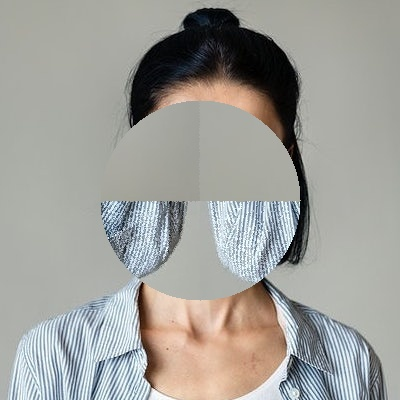
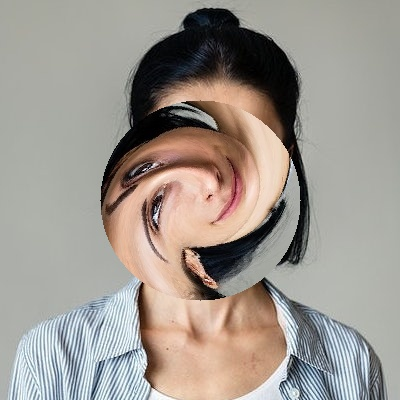
horrible looking forward swirl

Changed region(s): [[0.24, 0.24, 0.75, 0.75]]

diff --git a/Q4/q4.py b/Q4/q4.py
@@ -42,6 +42,11 @@ class polar:
         offset_x = x - self.center_y
         return offset_x, offset_y
 
+    def removeCenterOffset(self, offset_x, offset_y):
+        y = offset_x + self.center_x
+        x = offset_y + self.center_y
+        return x, y
+
     def cartesianToPolar(self, x,y):
         #assumes that c-ords have already be normalised around new center
         theta = self.thetaFromOragin(x, y)
@@ -60,7 +65,7 @@ class polar:
         if radius == 0:
             return 0,0
 
-        if theta <= 2 * math.pi and theta > 3/2 * math.pi:
+        elif theta <= 2 * math.pi and theta > 3/2 * math.pi:
             y = -(radius * math.cos(theta - 3/2 * math.pi))
             x = (radius * math.sin(theta - 3/2 * math.pi))
 
@@ -76,12 +81,15 @@ class polar:
             x = radius * math.cos(theta)
             y = radius * math.sin(theta)
 
+        else:
+            print(radius,theta)
+
         return x,y
 
 
 
-    def imageToPolar(self):
-
+    def imageToPolarTocartensian(self):
+        # a nice sense check!
         rows, cols, dims = self.image.shape
         canvas  = np.array([[(0.0, 0.0) for _ in range(cols)] for i_ in range(rows)])
 
@@ -89,8 +97,9 @@ class polar:
             for columb_x in range(cols):
                 offset_x, offset_y =self.centerOffset(columb_x, row_y)
                 theta, radius = self.cartesianToPolar(offset_x, offset_y)
+                new_x, new_y = self.polarToCartesian(radius, theta)
 
-                canvas[row_y][columb_x] = (theta, radius)
+                canvas[row_y][columb_x] = (new_x, new_y)
         return canvas
 
     def swirlForward(self, swirl_radius):
@@ -103,8 +112,9 @@ class polar:
                 theta, radius = self.cartesianToPolar(offset_x, offset_y)
 
                 if radius <= swirl_radius:
-                        altered_theta = self.addAngle(theta, math.pi/2)
+                        altered_theta = self.addAngle(theta, abs(math.sin(radius/swirl_radius)) * math.pi)
                         alt_x, alt_y = self.polarToCartesian(radius, altered_theta)
+                        alt_x, alt_y = self.removeCenterOffset(alt_x, alt_y)
                         alt_x, alt_y = int(alt_x), int(alt_y)
                         canvas[row_y][columb_x] = self.image[alt_x][alt_y]
         return canvas
